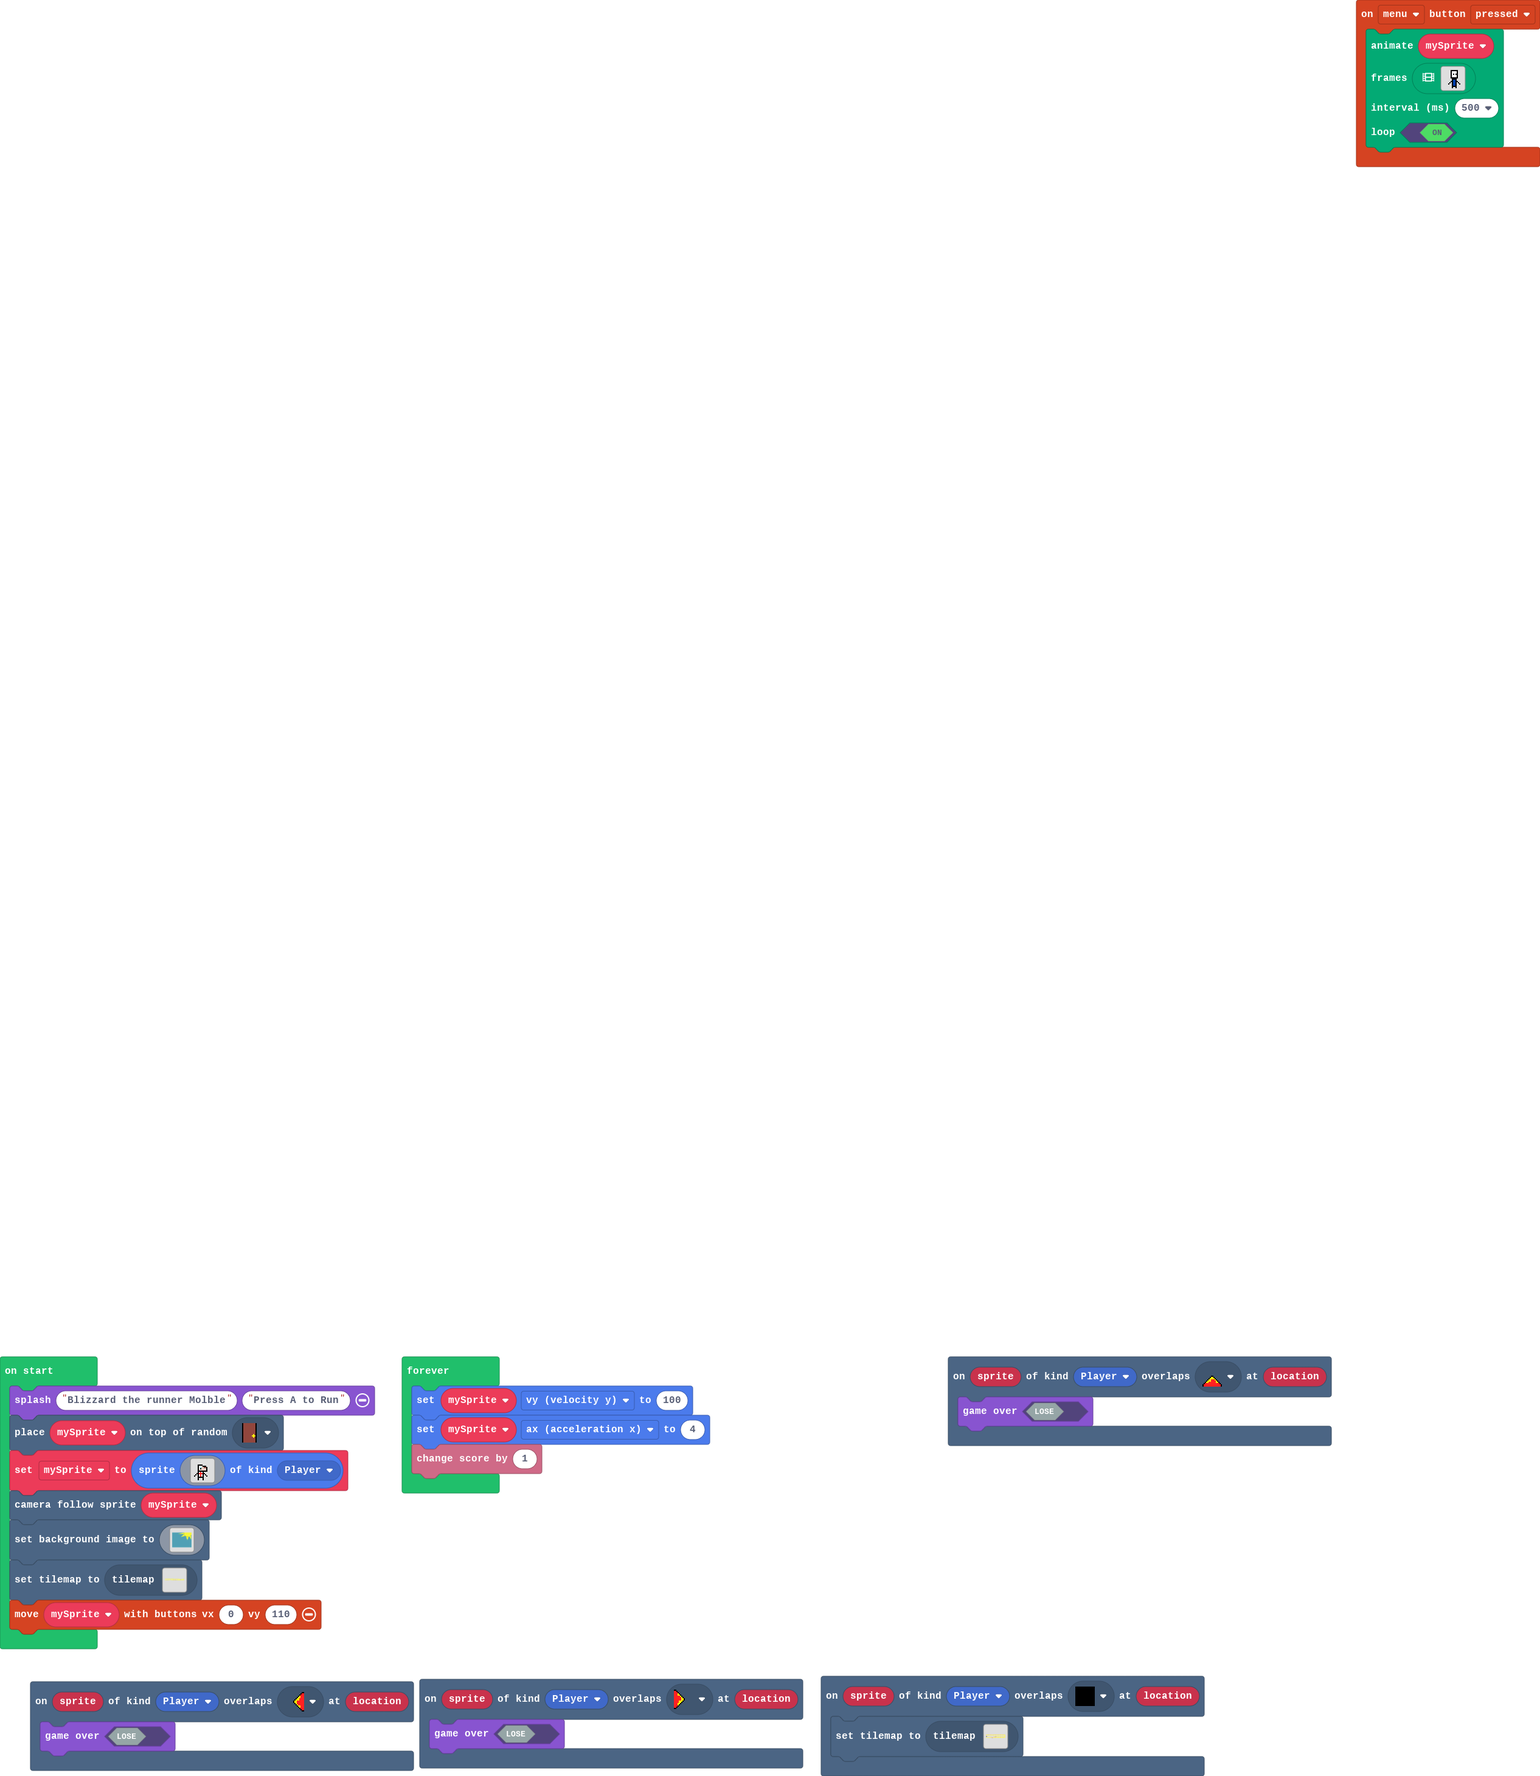
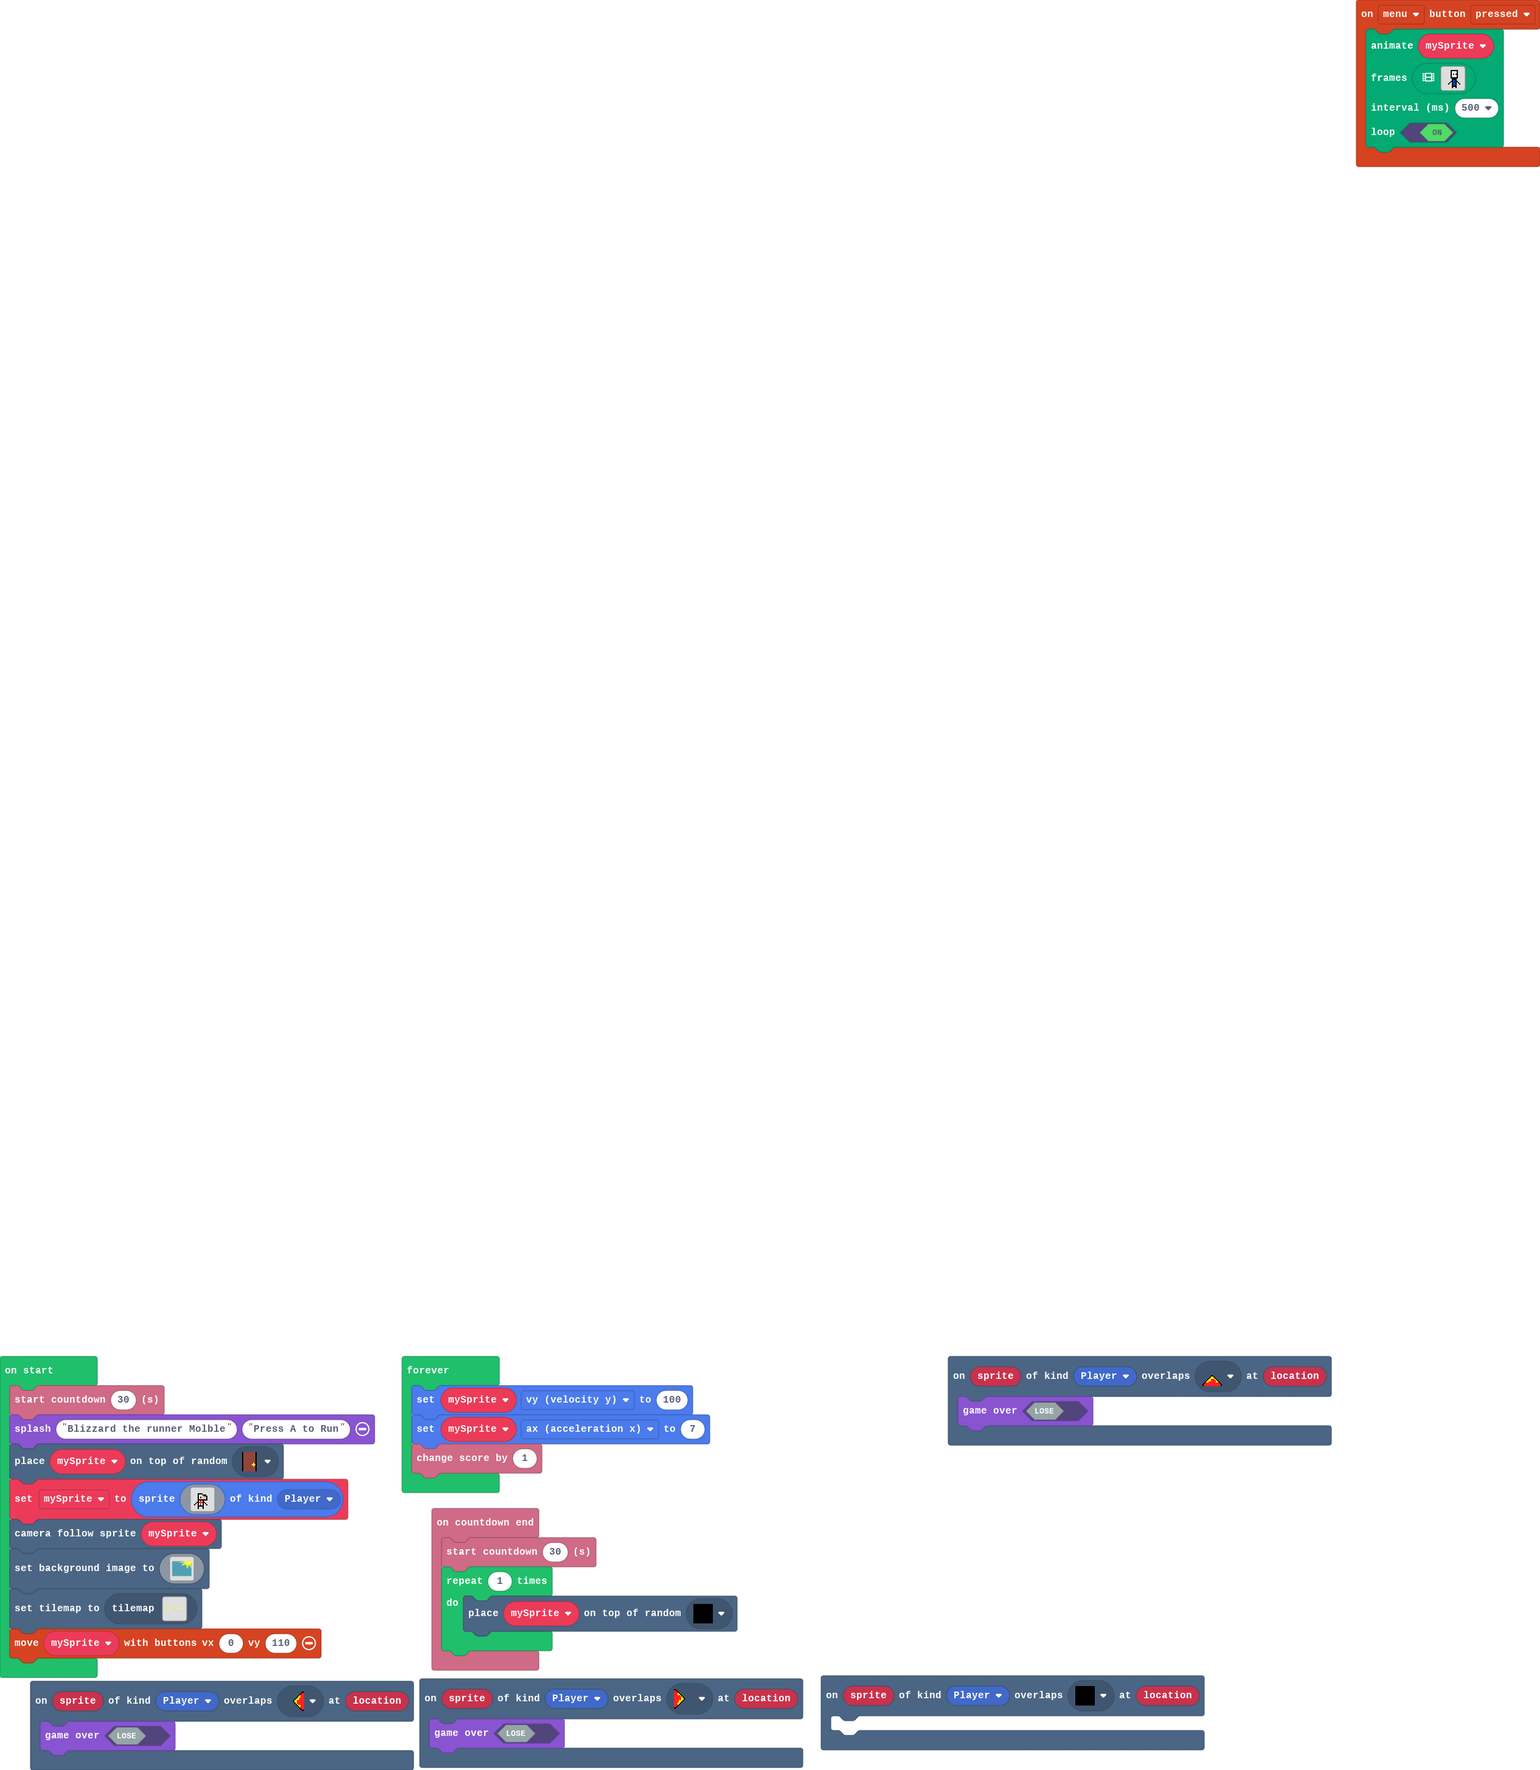
Update pxt.json, main.blocks, main.ts, tilemap.g.jres, tilemap.g.ts

Changed region(s): [[0.0, 0.7423, 0.78, 1.0], [0.624, 0.7423, 0.8736, 0.8351]]

diff --git a/tilemap.g.ts b/tilemap.g.ts
@@ -173,8 +173,116 @@ namespace myTiles {
 222222222222222222222222...22222..22222222222222222222222.............................2222222222222222222222222222....222222222222222......222222222.....222222222222222222222222222222222222222222222222222222222222222222222222222222222222222222222222222222
 222222222222222222222222...22222..22222222222222222222222222222222222222222222222222222222222222222222222222222222....222222222222222......222222222.....222222222222222222222222222222222222222222222222222222222222222222222222222222222222222222222222222222
 `, [myTiles.transparency16,myTiles.tile1,myTiles.tile3,myTiles.tile4,myTiles.tile5,myTiles.tile7,myTiles.tile8], TileScale.Sixteen);
-            case "level0":
[1 lines of base64/hex data omitted]
+            case "level11":
[1 lines of base64/hex data omitted]
+...............................................................................................................................................................................................................................................................
+...............................................................................................................................................................................................................................................................
+...............................................................................................................................................................................................................................................................
+...............................................................................................................................................................................................................................................................
+...............................................................................................................................................................................................................................................................
+...............................................................................................................................................................................................................................................................
+...............................................................................................................................................................................................................................................................
+...............................................................................................................................................................................................................................................................
+...............................................................................................................................................................................................................................................................
+...............................................................................................................................................................................................................................................................
+`, [myTiles.transparency16,myTiles.tile1,myTiles.tile3], TileScale.Sixteen);
+            case "level12":
+            case "level12":return tiles.createTilemap(hex`1000100000000000000000000000000000000000000000000000000000000000000000000000000000000000000000000000000000000000000000000000000000000000000000000000000000000000000000000000000000000000000000000000000000000000000000000000000000000000000000000000000000000000000000000000000000000000000000000000000000000000000000000000000000000000000000000000000000000000000000000000000000000000000000000000000000000000000000000000000000000000000000000000000000000000000000000000000000000000000000000000000000000000000000000000000000000000`, img`
+. . . . . . . . . . . . . . . . 
+. . . . . . . . . . . . . . . . 
+. . . . . . . . . . . . . . . . 
+. . . . . . . . . . . . . . . . 
+. . . . . . . . . . . . . . . . 
+. . . . . . . . . . . . . . . . 
+. . . . . . . . . . . . . . . . 
+. . . . . . . . . . . . . . . . 
+. . . . . . . . . . . . . . . . 
+. . . . . . . . . . . . . . . . 
+. . . . . . . . . . . . . . . . 
+. . . . . . . . . . . . . . . . 
+. . . . . . . . . . . . . . . . 
+. . . . . . . . . . . . . . . . 
+. . . . . . . . . . . . . . . . 
+. . . . . . . . . . . . . . . . 
+`, [myTiles.transparency16], TileScale.Sixteen);
+            case "level13":
+            case "level13":return tiles.createTilemap(hex`1000100000000000000000000000000000000000000000000000000000000000000000000000000000000000000000000000000000000000000000000000000000000000000000000000000000000000000000000000000000000000000000000000000000000000000000000000000000000000000000000000000000000000000000000000000000000000000000000000000000000000000000000000000000000000000000000000000000000000000000000000000000000000000000000000000000000000000000000000000000000000000000000000000000000000000000000000000000000000000000000000000000000000000000000000000000000000`, img`
+. . . . . . . . . . . . . . . . 
+. . . . . . . . . . . . . . . . 
+. . . . . . . . . . . . . . . . 
+. . . . . . . . . . . . . . . . 
+. . . . . . . . . . . . . . . . 
+. . . . . . . . . . . . . . . . 
+. . . . . . . . . . . . . . . . 
+. . . . . . . . . . . . . . . . 
+. . . . . . . . . . . . . . . . 
+. . . . . . . . . . . . . . . . 
+. . . . . . . . . . . . . . . . 
+. . . . . . . . . . . . . . . . 
+. . . . . . . . . . . . . . . . 
+. . . . . . . . . . . . . . . . 
+. . . . . . . . . . . . . . . . 
+. . . . . . . . . . . . . . . . 
+`, [myTiles.transparency16], TileScale.Sixteen);
+            case "level14":
+            case "level14":return tiles.createTilemap(hex`1000100000000000000000000000000000000000000000000000000000000000000000000000000000000000000000000000000000000000000000000000000000000000000000000000000000000000000000000000000000000000000000000000000000000000000000000000000000000000000000000000000000000000000000000000000000000000000000000000000000000000000000000000000000000000000000000000000000000000000000000000000000000000000000000000000000000000000000000000000000000000000000000000000000000000000000000000000000000000000000000000000000000000000000000000000000000000`, img`
+. . . . . . . . . . . . . . . . 
+. . . . . . . . . . . . . . . . 
+. . . . . . . . . . . . . . . . 
+. . . . . . . . . . . . . . . . 
+. . . . . . . . . . . . . . . . 
+. . . . . . . . . . . . . . . . 
+. . . . . . . . . . . . . . . . 
+. . . . . . . . . . . . . . . . 
+. . . . . . . . . . . . . . . . 
+. . . . . . . . . . . . . . . . 
+. . . . . . . . . . . . . . . . 
+. . . . . . . . . . . . . . . . 
+. . . . . . . . . . . . . . . . 
+. . . . . . . . . . . . . . . . 
+. . . . . . . . . . . . . . . . 
+. . . . . . . . . . . . . . . . 
+`, [myTiles.transparency16], TileScale.Sixteen);
+            case "level17":
+            case "level17":return tiles.createTilemap(hex`1000100000000000000000000000000000000000000000000000000000000000000000000000000000000000000000000000000000000000000000000000000000000000000000000000000000000000000000000000000000000000000000000000000000000000000000000000000000000000000000000000000000000000000000000000000000000000000000000000000000000000000000000000000000000000000000000000000000000000000000000000000000000000000000000000000000000000000000000000000000000000000000000000000000000000000000000000000000000000000000000000000000000000000000000000000000000000`, img`
+. . . . . . . . . . . . . . . . 
+. . . . . . . . . . . . . . . . 
+. . . . . . . . . . . . . . . . 
+. . . . . . . . . . . . . . . . 
+. . . . . . . . . . . . . . . . 
+. . . . . . . . . . . . . . . . 
+. . . . . . . . . . . . . . . . 
+. . . . . . . . . . . . . . . . 
+. . . . . . . . . . . . . . . . 
+. . . . . . . . . . . . . . . . 
+. . . . . . . . . . . . . . . . 
+. . . . . . . . . . . . . . . . 
+. . . . . . . . . . . . . . . . 
+. . . . . . . . . . . . . . . . 
+. . . . . . . . . . . . . . . . 
+. . . . . . . . . . . . . . . . 
+`, [myTiles.transparency16], TileScale.Sixteen);
+            case "level18":
+            case "level18":return tiles.createTilemap(hex`1000100000000000000000000000000000000000000000000000000000000000000000000000000000000000000000000000000000000000000000000000000000000000000000000000000000000000000000000000000000000000000000000000000000000000000000000000000000000000000000000000000000000000000000000000000000000000000000000000000000000000000000000000000000000000000000000000000000000000000000000000000000000000000000000000000000000000000000000000000000000000000000000000000000000000000000000000000000000000000000000000000000000000000000000000000000000000`, img`
+. . . . . . . . . . . . . . . . 
+. . . . . . . . . . . . . . . . 
+. . . . . . . . . . . . . . . . 
+. . . . . . . . . . . . . . . . 
+. . . . . . . . . . . . . . . . 
+. . . . . . . . . . . . . . . . 
+. . . . . . . . . . . . . . . . 
+. . . . . . . . . . . . . . . . 
+. . . . . . . . . . . . . . . . 
+. . . . . . . . . . . . . . . . 
+. . . . . . . . . . . . . . . . 
+. . . . . . . . . . . . . . . . 
+. . . . . . . . . . . . . . . . 
+. . . . . . . . . . . . . . . . 
+. . . . . . . . . . . . . . . . 
+. . . . . . . . . . . . . . . . 
+`, [myTiles.transparency16], TileScale.Sixteen);
+            case "level16":
[1 lines of base64/hex data omitted]
 222222222222222222222222222222222222222222222222222222222222222222222222222222222222222222222222222222222222222222222222222222222222222222222222222222222222222222222222222222222222222222222222..........................................................22222
 2222222222222222222222222222222222222222222222222222222222222222222222222222222222222222222222222222222222222222222222222222222222222222222222222222222222222222222222222222222222222.....................................................................22222
 222222222222222222222222222222222222222222222222222222222222222222222222222222222222222222222222222222222222222222........................................................................................................................................22222
@@ -192,6 +300,44 @@ namespace myTiles {
 222222222222222222222222...22222..22222222222222222222222.............................2222222222222222222222222222....222222222222222......222222222.....222222222222222222222222222222222222222222222222222222222222222222222222222222222222222222222222222222
 222222222222222222222222...22222..22222222222222222222222222222222222222222222222222222222222222222222222222222222....222222222222222......222222222.....222222222222222222222222222222222222222222222222222222222222222222222222222222222222222222222222222222
 `, [myTiles.transparency16,myTiles.tile1,myTiles.tile3,myTiles.tile4,myTiles.tile5,myTiles.tile7], TileScale.Sixteen);
+            case "level0":
[1 lines of base64/hex data omitted]
+222222222222222222222222222222222222222222222222222222222222222222222222222222222222222222222222222222222222222222222222222222222222222222222222222222222222222222222222222222222222222222222222..........................................................22222
+2222222222222222222222222222222222222222222222222222222222222222222222222222222222222222222222222222222222222222222222222222222222222222222222222222222222222222222222222222222222222.....................................................................22222
+222222222222222222222222222222222222222222222222222222222222222222222222222222222222222222222222222222222222222222........................................................................................................................................22222
+2222222222222222222222222222222222222222222222222222222222222222222222222222222222222222222222222222......................................................................................................................................................22222
+...............................22222......22222.....22222.................................................................................................................................................................................................22222
+...............................22222......22222.....22222................................................................................................2222.........222222222222222222222222222222222222..........2222222222222222222222222222222222222222222
+.........................................................................................................................................................2222.........222222222222222222222222222222222222..........2222222222222222222222222222222222222222222
+................................................................................................................................22222......22222222......2222.........222222222222222222222222222222222222..........2222222222222222222222222222222222222222222
+..........................................................................................222222222222222222222222....222222222222222......22222222......2222.........222222222222222222222222222222222222..........2222222222222222222222222222222222222222222
+.............................................................222222222222...2222222222....222222222222222222222222....222222222222222......222222222.....2222.........222222222222222222222222222222222222..........2222222222222222222222222222222222222222222
+.............................................................222222222222...22222222222...222222222222222222222222....222222222222222......222222222.....2222222222222222222222222222222222222222222222222..........2222222222222222222222222222222222222222222
+222222222222222222222222...22222..22222222222222222222222....2222222222222222222222222...2222222222222222222222222....222222222222222......222222222.....222222222222222222222222222222222222222222222222222222222222222222222222222222222222222222222222222222
+222222222222222222222222...22222..22222222222222222222222...............................22222222222222222222222222....222222222222222......222222222.....222222222222222222222222222222222222222222222222222222222222222222222222222222222222222222222222222222
+222222222222222222222222...22222..22222222222222222222222..............................222222222222222222222222222....222222222222222......222222222.....222222222222222222222222222222222222222222222222222222222222222222222222222222222222222222222222222222
+222222222222222222222222...22222..22222222222222222222222.............................2222222222222222222222222222....222222222222222......222222222.....222222222222222222222222222222222222222222222222222222222222222222222222222222222222222222222222222222
+222222222222222222222222...22222..22222222222222222222222222222222222222222222222222222222222222222222222222222222....222222222222222......222222222.....222222222222222222222222222222222222222222222222222222222222222222222222222222222222222222222222222222
+`, [myTiles.transparency16,myTiles.tile1,myTiles.tile3,myTiles.tile4,myTiles.tile5,myTiles.tile7], TileScale.Sixteen);
+            case "level19":
+            case "level19":return tiles.createTilemap(hex`1000100000000000000000000000000000000000000000000000000000000000000000000000000000000000000000000000000000000000000000000000000000000000000000000000000000000000000000000000000000000000000000000000000000000000000000000000000000000000000000000000000000000000000000000000000000000000000000000000000000000000000000000000000000000000000000000000000000000000000000000000000000000000000000000000000000000000000000000000000000000000000000000000000000000000000000000000000000000000000000000000000000000000000000000000000000000000`, img`
+. . . . . . . . . . . . . . . . 
+. . . . . . . . . . . . . . . . 
+. . . . . . . . . . . . . . . . 
+. . . . . . . . . . . . . . . . 
+. . . . . . . . . . . . . . . . 
+. . . . . . . . . . . . . . . . 
+. . . . . . . . . . . . . . . . 
+. . . . . . . . . . . . . . . . 
+. . . . . . . . . . . . . . . . 
+. . . . . . . . . . . . . . . . 
+. . . . . . . . . . . . . . . . 
+. . . . . . . . . . . . . . . . 
+. . . . . . . . . . . . . . . . 
+. . . . . . . . . . . . . . . . 
+. . . . . . . . . . . . . . . . 
+. . . . . . . . . . . . . . . . 
+`, [myTiles.transparency16], TileScale.Sixteen);
         }
         return null;
     })

diff --git a/main.ts b/main.ts
@@ -4,11 +4,17 @@ scene.onOverlapTile(SpriteKind.Player, assets.tile`myTile1`, function (sprite, l
 scene.onOverlapTile(SpriteKind.Player, assets.tile`myTile3`, function (sprite, location) {
     game.gameOver(false)
 })
+info.onCountdownEnd(function () {
+    info.startCountdown(30)
+    for (let index = 0; index < 1; index++) {
+        tiles.placeOnRandomTile(mySprite, assets.tile`myTile5`)
+    }
+})
 scene.onOverlapTile(SpriteKind.Player, assets.tile`myTile2`, function (sprite, location) {
     game.gameOver(false)
 })
 scene.onOverlapTile(SpriteKind.Player, assets.tile`myTile5`, function (sprite, location) {
-    tiles.setCurrentTilemap(tilemap`level3`)
+	
 })
 controller.menu.onEvent(ControllerButtonEvent.Pressed, function () {
     animation.runImageAnimation(
@@ -36,6 +42,7 @@ controller.menu.onEvent(ControllerButtonEvent.Pressed, function () {
     )
 })
 let mySprite: Sprite = null
+info.startCountdown(30)
 game.splash("Blizzard the runner Molble", "Press A to Run")
 tiles.placeOnRandomTile(mySprite, assets.tile`myTile0`)
 mySprite = sprites.create(assets.image`myImage0`, SpriteKind.Player)
@@ -166,6 +173,6 @@ tiles.setCurrentTilemap(tilemap`level0`)
 controller.moveSprite(mySprite, 0, 110)
 forever(function () {
     mySprite.vy = 100
-    mySprite.ax = 4
+    mySprite.ax = 7
     info.changeScoreBy(1)
 })
